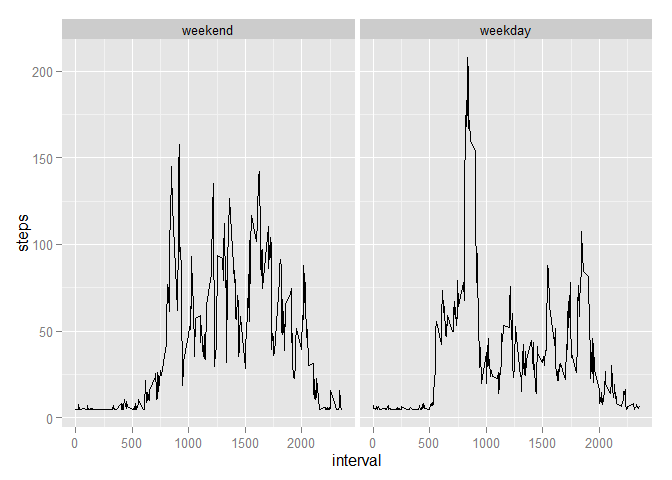
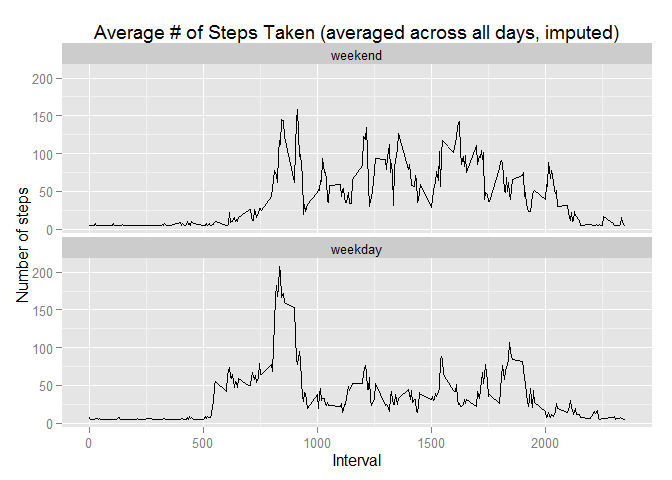
- Visual enhancements

diff --git a/PA1_template.html b/PA1_template.html
@@ -131,8 +131,8 @@ data.group.interval &lt;- group_by(data, interval)
 data.sum.interval &lt;- summarize(data.group.interval, mean = mean(steps, na.rm = TRUE))
 
 ## Display time series
-ggplot(data.sum.interval, aes(x = interval, y = mean)) + geom_line() + xlab(&quot;Interval&quot;) + ylab(&quot;Steps&quot;) + ggtitle(&quot;Average # of Steps Taken (averaged across all days)&quot;)</code></pre>
[1 lines of base64/hex data omitted]
+ggplot(data.sum.interval, aes(x = interval, y = mean)) + geom_line() + xlab(&quot;Interval&quot;) + ylab(&quot;Steps&quot;) + ggtitle(&quot;Average # of Steps Taken (averaged across all days)&quot;) + ylab(&quot;Number of steps&quot;) + xlab(&quot;Interval&quot;)</code></pre>
[1 lines of base64/hex data omitted]
 <pre class="r"><code>## Which 5-minute interval, on average across all the days in the dataset, contains the maximum number of steps
 data.sum.interval[which(data.sum.interval$mean == max(data.sum.interval$mean)), ]</code></pre>
 <pre><code>## Source: local data frame [1 x 2]
@@ -179,8 +179,8 @@ data.nona$wd_we &lt;- factor((weekdays(as.Date(data.nona$date)) %in% list_weekda
 data.nona.sum.interval &lt;- ddply(data.nona, c(&quot;interval&quot;, &quot;wd_we&quot;), summarize, steps = mean(steps))
     
 # Panel plot
-ggplot(data.nona.sum.interval, aes(x = interval, y = steps, group = wd_we)) + facet_wrap( ~ wd_we) + geom_line()</code></pre>
[1 lines of base64/hex data omitted]
+ggplot(data.nona.sum.interval, aes(x = interval, y = steps, group = wd_we)) + facet_wrap( ~ wd_we, ncol = 1) + geom_line()  + ggtitle(&quot;Average # of Steps Taken (averaged across all days, imputed)&quot;) + ylab(&quot;Number of steps&quot;) + xlab(&quot;Interval&quot;)</code></pre>
[1 lines of base64/hex data omitted]
 </div>
 
 

diff --git a/PA1_template.md b/PA1_template.md
@@ -98,7 +98,7 @@ data.group.interval <- group_by(data, interval)
 data.sum.interval <- summarize(data.group.interval, mean = mean(steps, na.rm = TRUE))
 
 ## Display time series
-ggplot(data.sum.interval, aes(x = interval, y = mean)) + geom_line() + xlab("Interval") + ylab("Steps") + ggtitle("Average # of Steps Taken (averaged across all days)")
+ggplot(data.sum.interval, aes(x = interval, y = mean)) + geom_line() + xlab("Interval") + ylab("Steps") + ggtitle("Average # of Steps Taken (averaged across all days)") + ylab("Number of steps") + xlab("Interval")
 ```
 
 ![](PA1_template_files/figure-html/unnamed-chunk-4-1.png) 
@@ -173,7 +173,7 @@ data.nona$wd_we <- factor((weekdays(as.Date(data.nona$date)) %in% list_weekdays)
 data.nona.sum.interval <- ddply(data.nona, c("interval", "wd_we"), summarize, steps = mean(steps))
     
 # Panel plot
-ggplot(data.nona.sum.interval, aes(x = interval, y = steps, group = wd_we)) + facet_wrap( ~ wd_we) + geom_line()
+ggplot(data.nona.sum.interval, aes(x = interval, y = steps, group = wd_we)) + facet_wrap( ~ wd_we, ncol = 1) + geom_line()  + ggtitle("Average # of Steps Taken (averaged across all days, imputed)") + ylab("Number of steps") + xlab("Interval")
 ```
 
 ![](PA1_template_files/figure-html/unnamed-chunk-6-1.png) 
